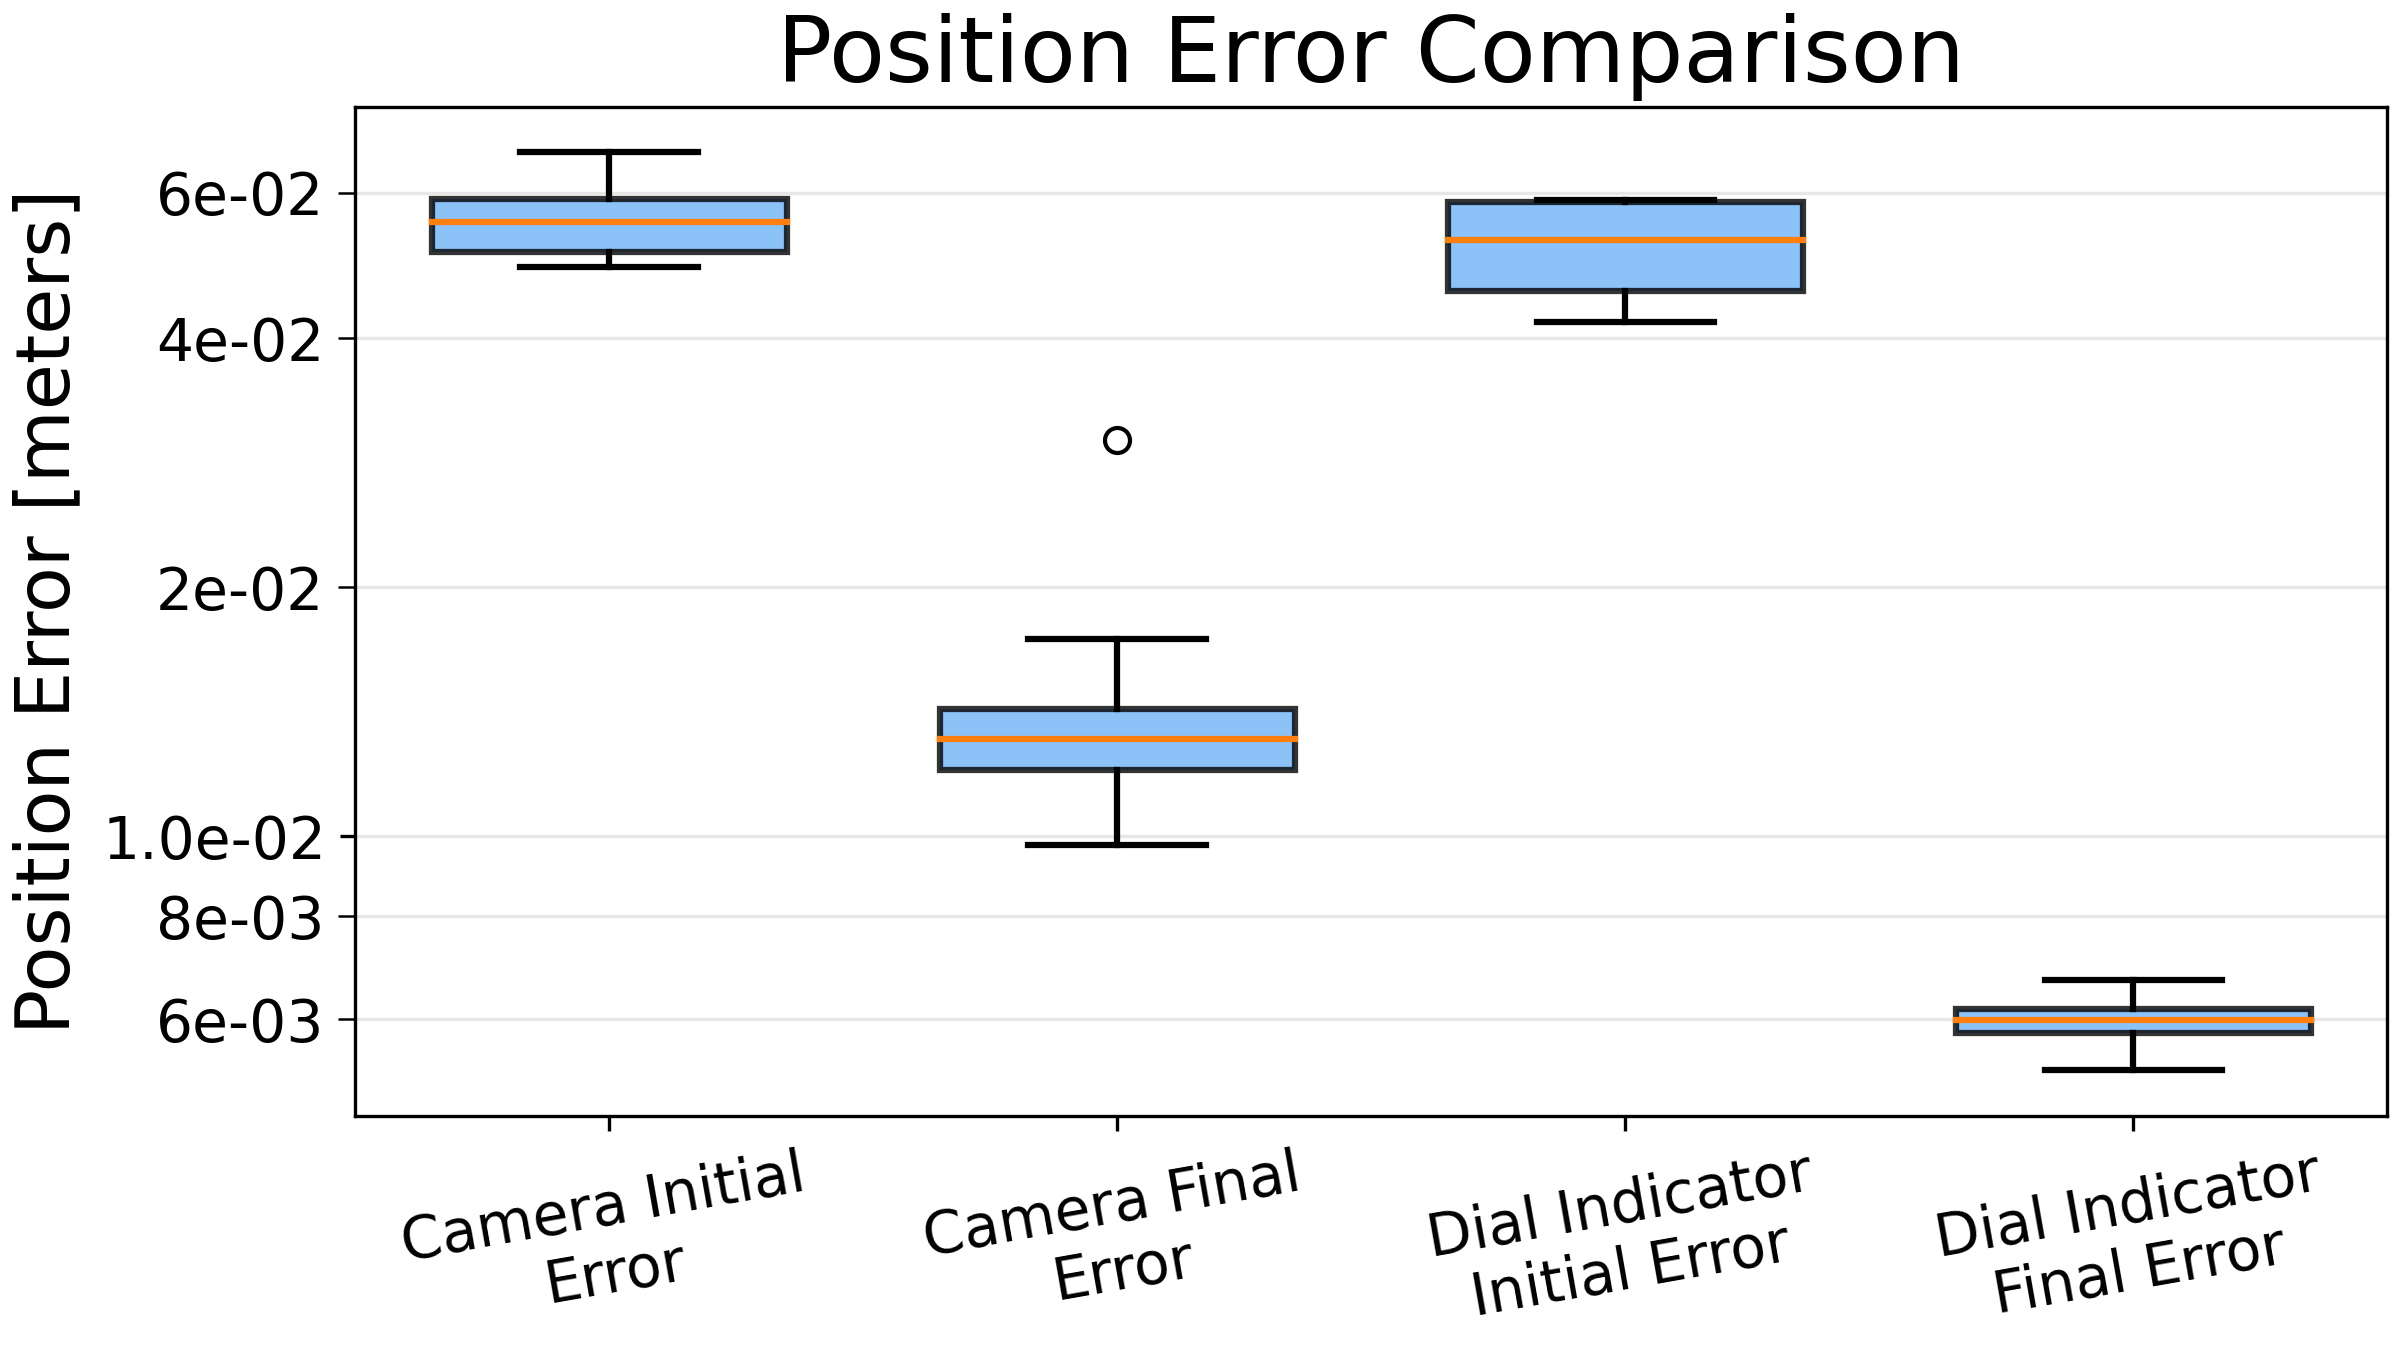
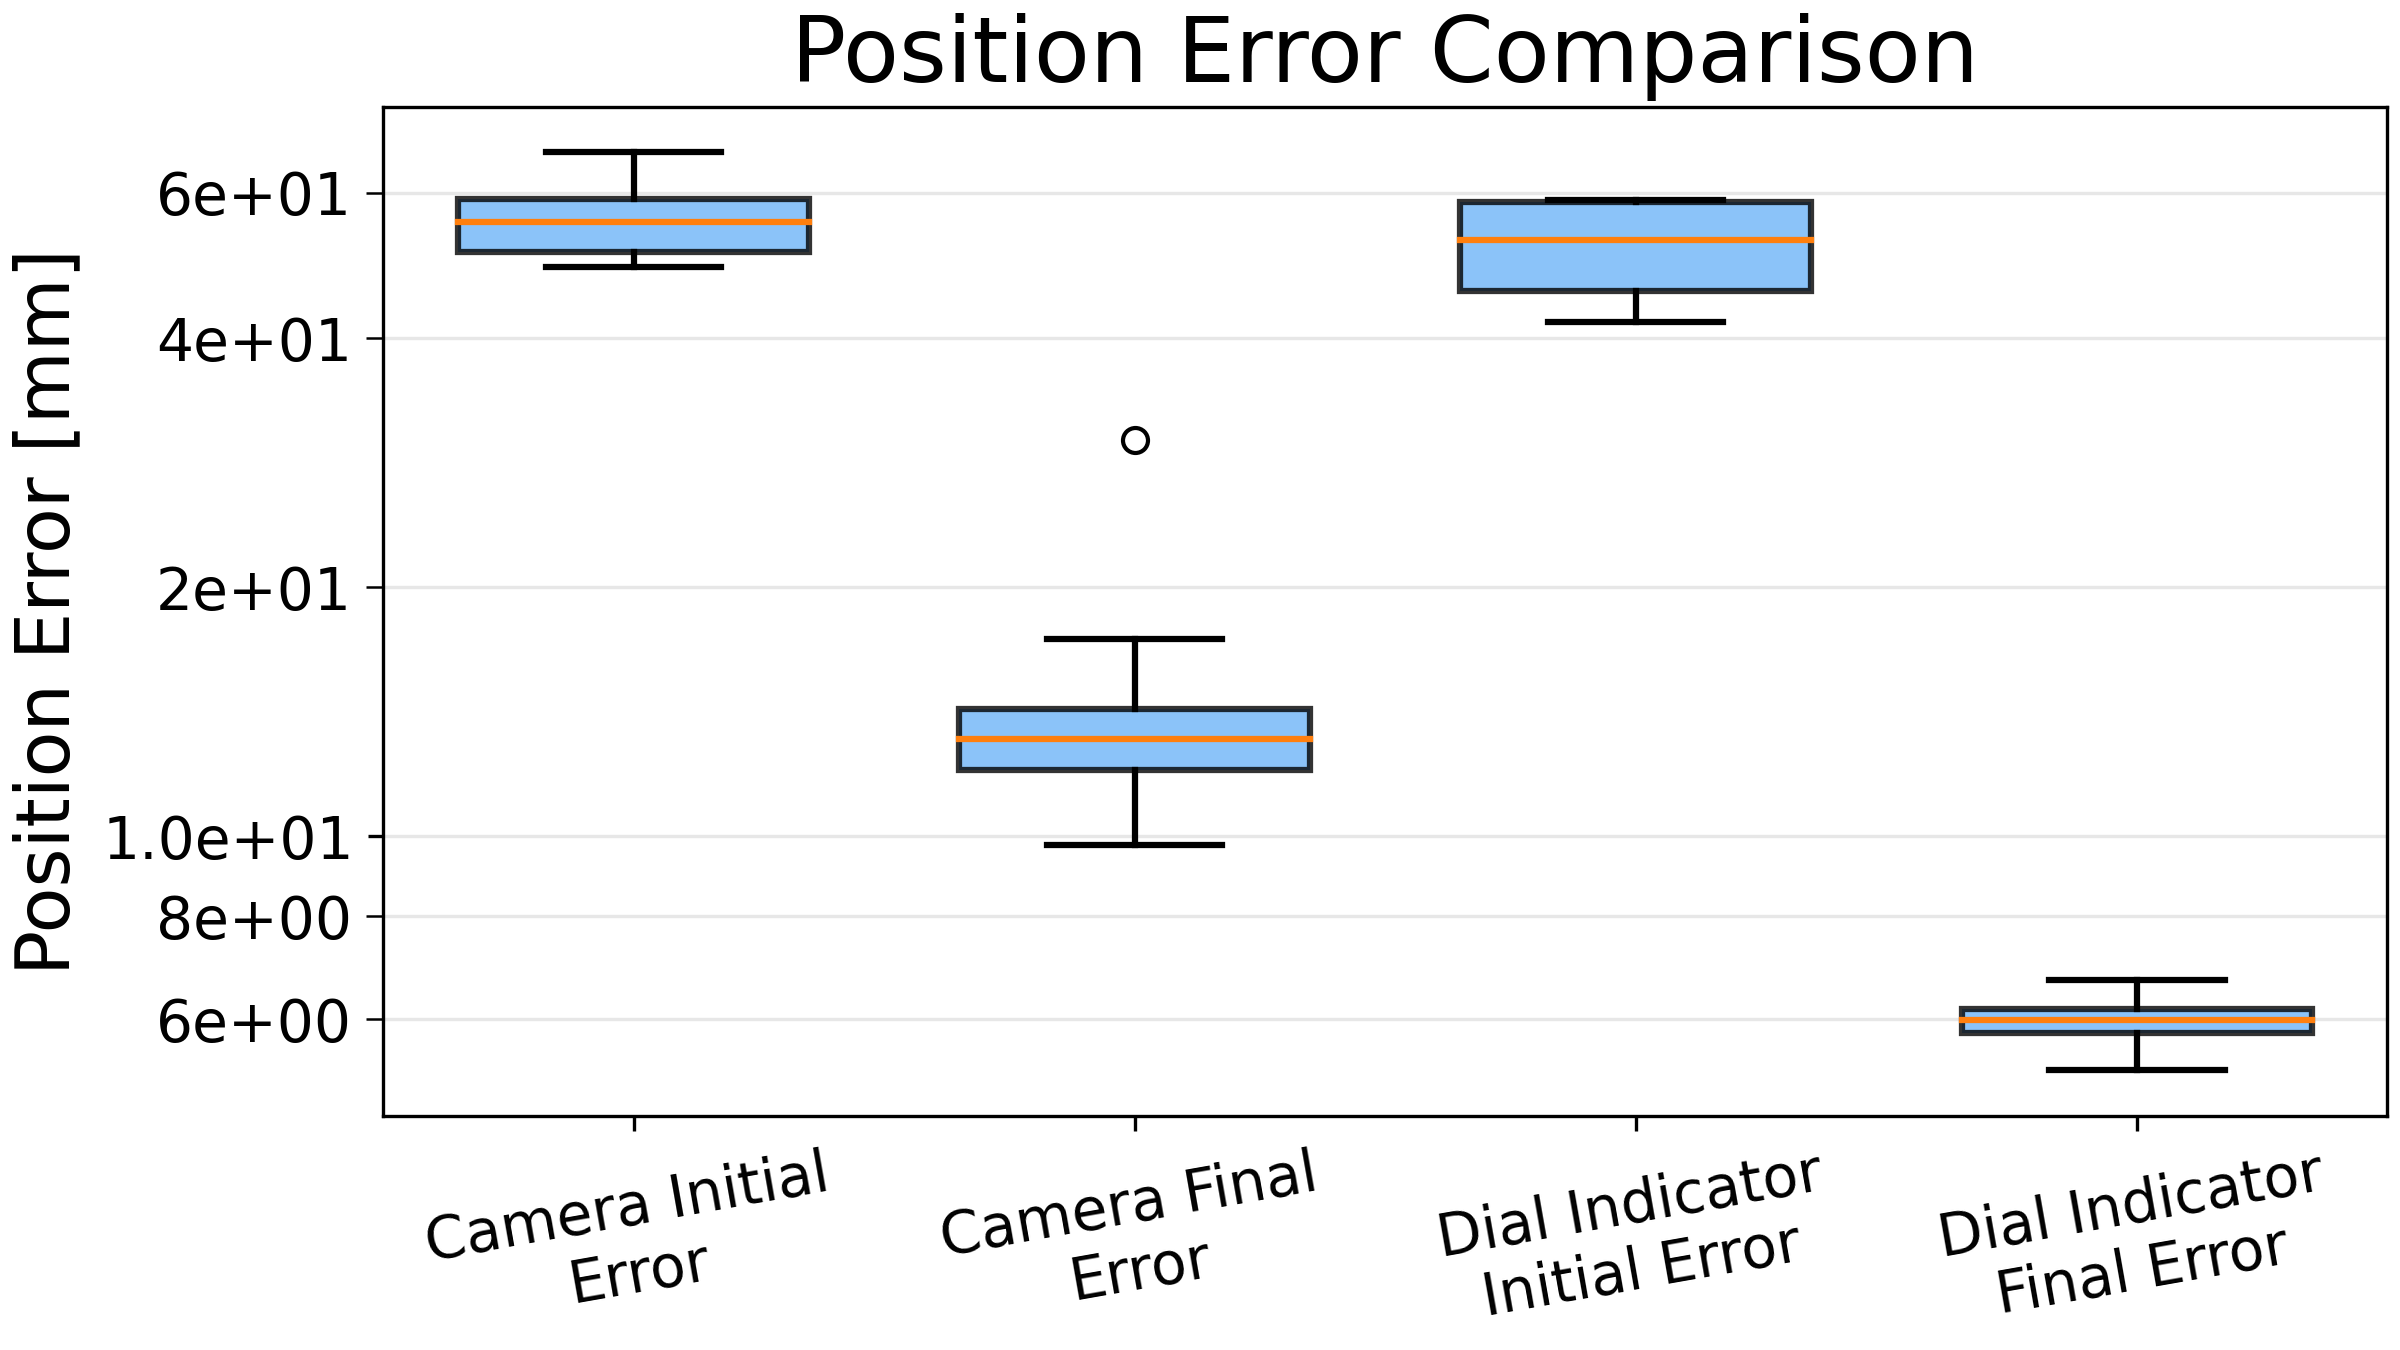
minor changes to plots

diff --git a/miscData/FinalDataCollection/plotCalibrationData.py b/miscData/FinalDataCollection/plotCalibrationData.py
@@ -90,30 +90,19 @@ counter = 1
 for filename, df in dataframes.items():
     label_base = os.path.splitext(filename)[0]
     color = file_colors[filename]
-    plt.plot(df['Position Error'], label=f'Trial {counter}', color=color, linewidth=2)
+    plt.plot(df['Position Error'] * 1000, label=f'Trial {counter}', color=color, linewidth=2)
     
     # Collect min values for y-axis scaling
-    pos_errors = df['Position Error']
+    pos_errors = df['Position Error'] * 1000
     min_val = pos_errors[pos_errors > 0].min()
     if min_val is not None and min_val > 0:
         min_vals.append(min_val)
     counter += 1
 
-'''# Add validation lines if available
-if validation_pos_error is not None:
-    plt.axhline(y=validation_pos_error, color='red', linestyle='--', linewidth=2, 
-                label=f'Dial Indicator Overall: {validation_pos_error:.6f}m')
-
-# Add position-specific validation lines
-position_colors = {'backRight': 'orange', 'backLeft': 'purple', 'frontLeft': 'green', 'frontRight': 'brown'}
-for pos, error in position_specific_errors.items():
-    plt.axhline(y=error, color=position_colors.get(pos, 'gray'), linestyle=':', linewidth=2,
-                label=f'Dial {pos}: {error:.6f}m')'''
-
 plt.yscale('log')
 plt.title('Position Error Values', fontsize=16)
 plt.xlabel('Iteration', fontsize=16)
-plt.ylabel('Position Error [meters]', fontsize=16)
+plt.ylabel('Position Error [mm]', fontsize=16)
 plt.legend(fontsize=14)
 plt.grid(True, which='both', axis='y')
 plt.xticks(fontsize=16)
@@ -140,12 +129,12 @@ counter = 1
 for filename, df in dataframes.items():
     label_base = os.path.splitext(filename)[0]
     color = file_colors[filename]
-    plt.plot(df['Position Error'], label=f'Trial {counter}', color=color, linewidth=2)
+    plt.plot(df['Position Error'] * 1000, label=f'Trial {counter}', color=color, linewidth=2)
     counter += 1
 
 plt.title('Position Error Values', fontsize=16)
 plt.xlabel('Iteration', fontsize=16)
-plt.ylabel('Position Error [meters]', fontsize=16)
+plt.ylabel('Position Error [mm]', fontsize=16)
 plt.legend(fontsize=14)
 plt.grid(False)
 plt.xticks(fontsize=16)
@@ -160,10 +149,10 @@ counter = 1
 for filename, df in dataframes.items():
     label_base = os.path.splitext(filename)[0]
     color = file_colors[filename]
-    plt.plot(df['Orientation Error'], label=f'Trial {counter}', color=color, linewidth=2)
+    plt.plot(df['Orientation Error'] * 180/np.pi, label=f'Trial {counter}', color=color, linewidth=2)
     
     # Collect min values for y-axis scaling
-    orient_errors = df['Orientation Error']
+    orient_errors = df['Orientation Error'] * 180/np.pi
     min_val = orient_errors[orient_errors > 0].min()
     if min_val is not None and min_val > 0:
         min_vals.append(min_val)
@@ -171,13 +160,13 @@ for filename, df in dataframes.items():
 
 '''# Add validation line if available
 if validation_orient_error is not None:
-    plt.axhline(y=validation_orient_error, color='red', linestyle='--', linewidth=2, 
-                label=f'Estimated Validation: {validation_orient_error:.6f}rad')'''
+    plt.axhline(y=validation_orient_error * 180/np.pi, color='red', linestyle='--', linewidth=2, 
+                label=f'Estimated Validation: {validation_orient_error * 180/np.pi:.6f}deg')'''
 
 plt.yscale('log')
 plt.title('Orientation Error Values', fontsize=16)
 plt.xlabel('Iteration', fontsize=16)
-plt.ylabel('Orientation Error [radians]', fontsize=16)
+plt.ylabel('Orientation Error [degrees]', fontsize=16)
 plt.legend(fontsize=14)
 plt.grid(True, which='both', axis='y')
 plt.xticks(fontsize=16)
@@ -204,12 +193,12 @@ counter = 1
 for filename, df in dataframes.items():
     label_base = os.path.splitext(filename)[0]
     color = file_colors[filename]
-    plt.plot(df['Orientation Error'], label=f'Trial {counter}', color=color, linewidth=2)
+    plt.plot(df['Orientation Error'] * 180/np.pi, label=f'Trial {counter}', color=color, linewidth=2)
     counter += 1
 
 plt.title('Orientation Error Values', fontsize=16)
 plt.xlabel('Iteration', fontsize=16)
-plt.ylabel('Orientation Error [radians]', fontsize=16)
+plt.ylabel('Orientation Error [degrees]', fontsize=16)
 plt.legend(fontsize=14)
 plt.grid(False)
 plt.xticks(fontsize=16)
@@ -227,11 +216,14 @@ for filename, df in dataframes.items():
     for col in pose_cols:
         if col in df.columns:
             diff = df[col] - df[col].iloc[-1]
+            # Convert angular values to degrees
+            if 'Roll' in col or 'Pitch' in col or 'Yaw' in col:
+                diff = diff * 180/np.pi
             plt.plot(diff, label=f'{label_base} - {col}', linewidth=2)
 
 plt.title('Estimated Target Pose (Difference from Final Value) - Combined', fontsize=16)
 plt.xlabel('Iteration', fontsize=16)
-plt.ylabel('Value - Final Value [meters/radians]', fontsize=16)
+plt.ylabel('Value - Final Value [mm/degrees]', fontsize=16)
 plt.legend(fontsize=14)
 plt.grid(False)
 plt.xticks(fontsize=16)
@@ -268,7 +260,7 @@ box_labels = []
 initial_errors = []
 for filename, df in dataframes.items():
     if 'Position Error' in df.columns and len(df) > 0:
-        initial_errors.append(df['Position Error'].iloc[0])
+        initial_errors.append(df['Position Error'].iloc[0] * 1000)
 
 print("Camera Initial Errors:", np.mean(initial_errors))  # Print initial errors
 
@@ -280,7 +272,7 @@ if initial_errors:
 final_errors = []
 for filename, df in dataframes.items():
     if 'Position Error' in df.columns and len(df) > 0:
-        final_errors.append(df['Position Error'].iloc[-1])
+        final_errors.append(df['Position Error'].iloc[-1] * 1000)
 
 print("Camera Final Errors:", np.mean(final_errors))  # Print final errors
 
@@ -290,7 +282,7 @@ if final_errors:
 
 # 3. Initial dial indicator data
 if initial_pos_error is not None:
-    dial_initial_errors = list(initial_position_errors.values())
+    dial_initial_errors = [error * 1000 for error in initial_position_errors.values()]
     print("Dial Indicator Initial Errors:", np.mean(dial_initial_errors))  # Print dial initial errors
     if dial_initial_errors:
         box_data.append(dial_initial_errors)
@@ -298,7 +290,7 @@ if initial_pos_error is not None:
 
 # 4. Final dial indicator data
 if final_pos_error is not None:
-    dial_final_errors = list(final_position_errors.values())
+    dial_final_errors = [error * 1000 for error in final_position_errors.values()]
     print("Dial Indicator Final Errors:", np.mean(dial_final_errors))  # Print dial final errors
     if dial_final_errors:
         box_data.append(dial_final_errors)
@@ -325,7 +317,7 @@ if len(box_data) >= 4:
 
     ax.set_yscale('log')
     ax.set_title('Position Error Comparison', fontsize=22)
-    ax.set_ylabel('Position Error [meters]', fontsize=18)
+    ax.set_ylabel('Position Error [mm]', fontsize=18)
     ax.grid(True, which='both', axis='y', alpha=0.3)
     ax.set_xticklabels(box_labels, fontsize=14, rotation=10)
     ax.yaxis.set_major_locator(LogLocator(base=10.0, numticks=12))
